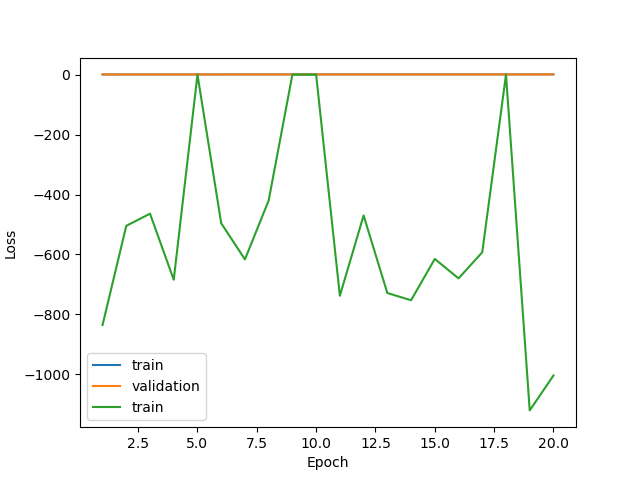
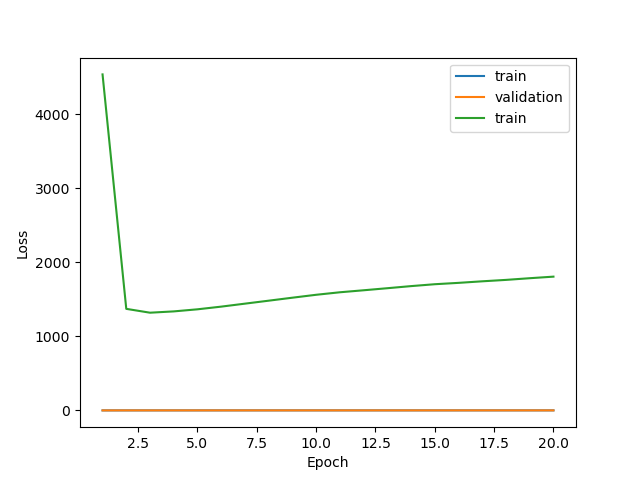
changes

diff --git a/skeleton_code/hw1-q2.py b/skeleton_code/hw1-q2.py
@@ -77,7 +77,7 @@ class FeedforwardNetwork(nn.Module):
         self.layers.append(nn.Linear(n_features, hidden_size, bias=True))
 
         # hidden to hidden
-        for i in range(layers-1):
+        for i in range(layers):
             self.layers.append(nn.Linear(hidden_size, hidden_size, bias=True))
 
         # hidden to output
@@ -99,11 +99,12 @@ class FeedforwardNetwork(nn.Module):
         the output logits from x. This will include using various hidden
         layers, pointwise nonlinear functions, and dropout.
         """
-        for i in range (len(self.layers) - 1):
-            layer = self.layers[i]
+        x = self.activation(self.layers[0](x))
+        
+        for layer in self.layers[1:len(self.layers)-1]:
             x = layer(x)
-            x = self.activation(x)
             x = self.dropout(x)
+            x = self.activation(x)
             
         x = self.layers[-1](x)
         

diff --git a/skeleton_code/hw1-q1.py b/skeleton_code/hw1-q1.py
@@ -196,7 +196,6 @@ class MLP(object):
         h = np.dot(self.W[-1], h) + self.b[-1]
         
         output = utils.softmax(h)  
-        print("output", output) 
         
         return output, hiddens, g_primes
     
